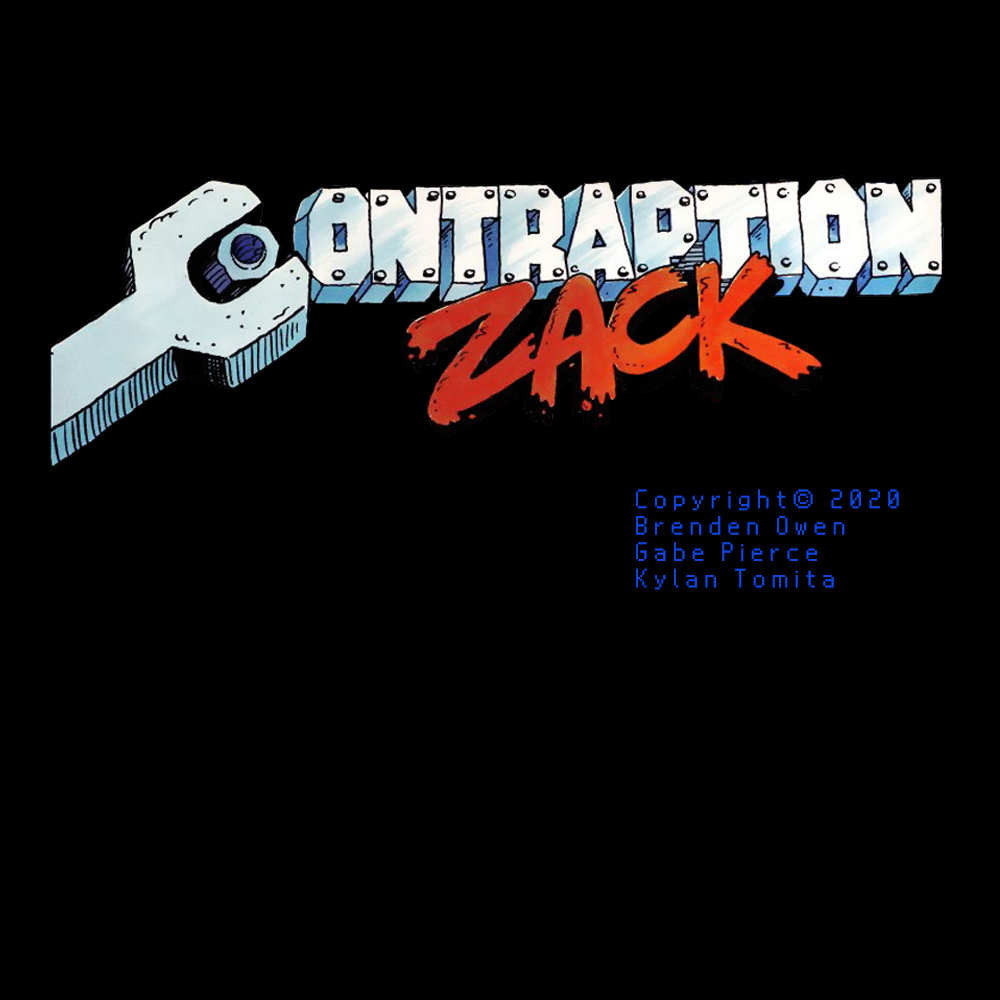
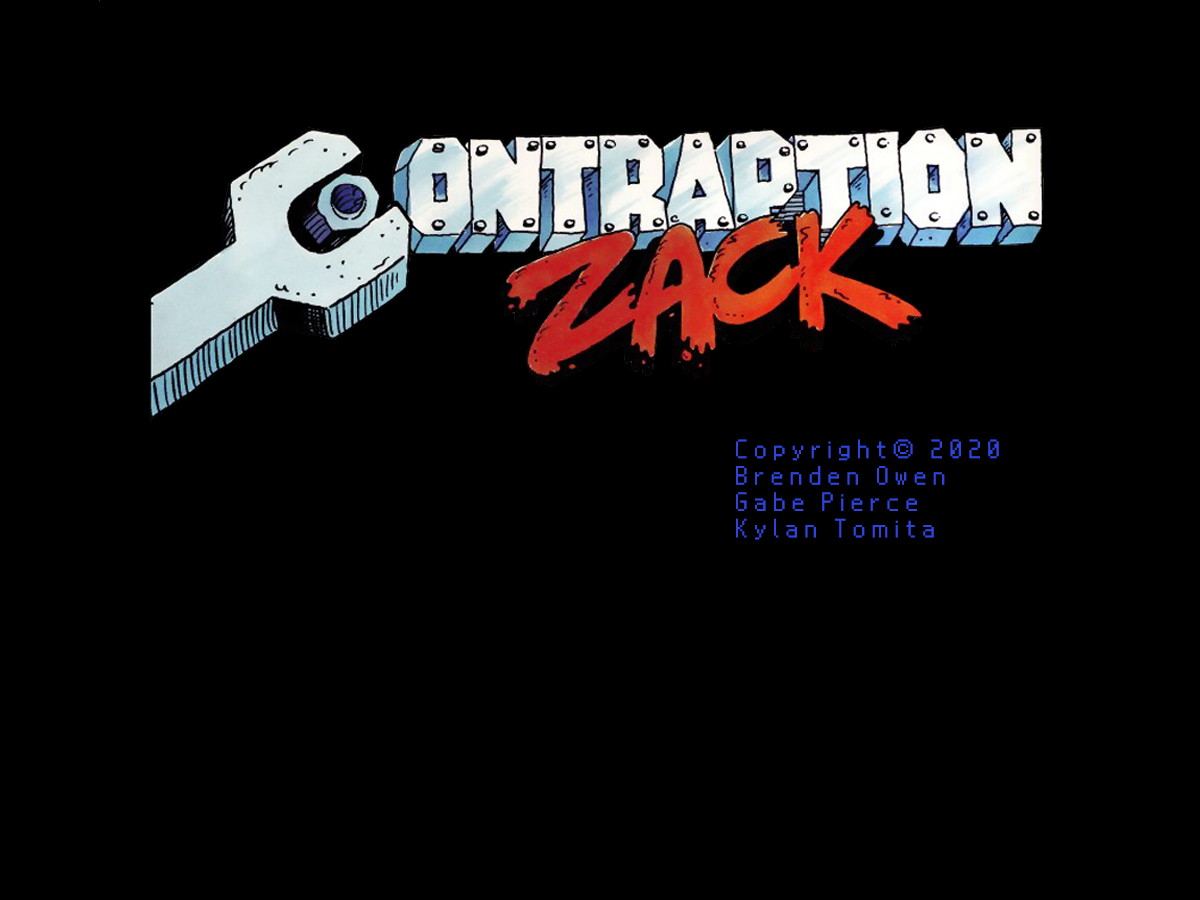
doors, changed aspect ratio and shifted levels to the right

Changed region(s): [[0.031, 0.1244, 0.961, 0.4667], [0.62, 0.4667, 0.899, 0.6222]]

diff --git a/Puzzle/src/Puzzle.java b/Puzzle/src/Puzzle.java
@@ -91,7 +91,7 @@ public class Puzzle extends Application {
 		//border pane holds everything
 		BorderPane bp = new BorderPane();
 		bp.setBackground(new Background(myImage));
-		bp.setPrefSize(1000, 1000);
+		bp.setPrefSize(PuzzleUtil.MAX_WIDTH, PuzzleUtil.MAX_HEIGHT);
 		bp.setBottom(myButtons);
 		//lift the buttons off the ground
 		bp.setPadding(new Insets(0, 00, 100, 0));
@@ -186,51 +186,58 @@ public class Puzzle extends Application {
             	continue;
           String[] data = l.split(",");
           
-          //the x,y,w,h common to all elements
-          int[] v = new int[4];
-          for(int i = 0; i < 4; i++)
-        	  v[i] = Integer.parseInt(data[i+1]); 
-          
-          Dir dir;
-          Col color;
-          switch(data[0]) {
-          case "t":
-        	  levelElements.add(new Tile(v[0], v[1], v[2], v[3],data[5]));
-        	  break;
-          case "w":
-        	  levelElements.add(new Wall(v[0], v[1], v[2], v[3], data[5]));
-        	  break;
-          case "j":
-        	  levelElements.add(new Jukebox(v[0], v[1], v[2], v[3]));
-        	  break;
-          case "a":
-        	  dir = new Dir(data[5]);
-        	  int dx = Integer.parseInt(data[7]), dy = Integer.parseInt(data[8]);
-        	  levelElements.add(new Arrow(v[0], v[1], v[2], v[3], dir, data[6], dx, dy, this));
-        	  break;
-          case "sp":
-        	  color = new Col(data[5]);
-        	  levelElements.add(new SquarePlate(v[0], v[1], v[2], v[3], color, Integer.parseInt(data[6]), this));
-        	  break;
-          case "cp":
-        	  color = new Col(data[5]);
-        	  levelElements.add(new circlePlate(v[0], v[1], v[2], v[3], color, Integer.parseInt(data[6]), this));
-        	  break;
-          case "spike":
-        	  color = new Col(data[5]);
-        	  levelElements.add(new Spike(v[0], v[1], v[2], v[3], color, data[6].charAt(0), Integer.parseInt(data[7]), this));
-        	  break;
-          case "launchpad":
-        	  dir = new Dir(data[5]);
-        	  levelElements.add(new Launchpad(v[0], v[1], v[2], v[3], dir, Integer.parseInt(data[6]), this));
-        	  break;
-          case "screwdriver":
-        	  //color = new Col(data[])
-        	  levelElements.add(new Screwdriver(v[0], v[1], v[2], v[3], Integer.parseInt(data[5]), this));
-        	  break;
-          }
-        }
-        scan.close();
+          try {
+        	  //the x,y,w,h common to all elements
+			  int[] v = new int[4];
+			  for(int i = 0; i < 4; i++)
+				  v[i] = Integer.parseInt(data[i+1]); 
+			  
+			  Dir dir;
+			  Col color;
+			  switch(data[0]) {
+			  case "t":
+				  levelElements.add(new Tile(v[0], v[1], v[2], v[3],data[5]));
+				  break;
+			  case "w":
+				  levelElements.add(new Wall(v[0], v[1], v[2], v[3], data[5]));
+				  break;
+			  case "j":
+				  levelElements.add(new Jukebox(v[0], v[1], v[2], v[3]));
+				  break;
+			  case "a":
+				  dir = new Dir(data[5]);
+				  int dx = Integer.parseInt(data[7]), dy = Integer.parseInt(data[8]);
+				  levelElements.add(new Arrow(v[0], v[1], v[2], v[3], dir, data[6], dx, dy, this));
+				  break;
+			  case "sp":
+				  color = new Col(data[5]);
+				  levelElements.add(new SquarePlate(v[0], v[1], v[2], v[3], color, Integer.parseInt(data[6]), this));
+				  break;
+			  case "cp":
+				  color = new Col(data[5]);
+				  levelElements.add(new CirclePlate(v[0], v[1], v[2], v[3], color, Integer.parseInt(data[6]), this));
+				  break;
+			  case "spike":
+				  color = new Col(data[5]);
+				  levelElements.add(new Spike(v[0], v[1], v[2], v[3], color, data[6].charAt(0), Integer.parseInt(data[7]), this));
+				  break;
+			  case "launchpad":
+				  dir = new Dir(data[5]);
+				  levelElements.add(new Launchpad(v[0], v[1], v[2], v[3], dir, Integer.parseInt(data[6]), this));
+				  break;
+			  case "screwdriver":
+				  levelElements.add(new Screwdriver(v[0], v[1], v[2], v[3], Integer.parseInt(data[5]), this));
+				  break;
+			  case "door":
+				  levelElements.add(new Door(v[0], v[1], v[2], v[3], Integer.parseInt(data[5]), Integer.parseInt(data[6]), Integer.parseInt(data[7]),this));
+				  break;
+				}
+			} catch (ArrayIndexOutOfBoundsException e) {
+				System.out.println("Error with line:" + l);
+				e.printStackTrace();
+			}
+		}
+		scan.close();
 	}
 
 	public class LoadLevel extends Canvas {
@@ -292,6 +299,7 @@ public class Puzzle extends Application {
 			for (Element e : levelElements) {
 				e.update(millis);
 			}
+			//change the level after fade out finishes
 			if( fadeValue == 100 ) {
 				fadeDirection = -1;
 				saveAndLoadNextLevel(changingLevel);
@@ -316,11 +324,7 @@ public class Puzzle extends Application {
 				zack.goTo(tempX, tempY);
 			
 			//draw the level
-			levelCanvas.draw();
-			
-			//Drop down menu logic
-			//dropMenu
-			
+			levelCanvas.draw();			
 		}
 	}
 	

diff --git a/Puzzle/src/Door.java b/Puzzle/src/Door.java
@@ -1,0 +1,73 @@
+import java.util.ArrayList;
+
+import javafx.scene.canvas.GraphicsContext;
+import javafx.scene.image.Image;
+import javafx.scene.paint.Color;
+
+public class Door extends Element{
+	
+	private final static Image DOOR = new Image(PuzzleUtil.FILE_PATH_RES+"door.png", false);
+	private final static int DOOR_WIDTH = 83;
+	private final static int DOOR_HEIGHT = 184;
+	private final static int DOOR_ADVANCE_WAIT = 5;
+	private final static int DOOR_MAX_WAIT_VALUE = 140;
+	private int wait;
+	private int advanceWait;
+	private int minWait;
+	private int maxWait;
+	private int doorFrame;
+	private Puzzle puzzle;
+	
+	public Door(int x, int y, int w, int h, int wait, int minWait, int maxWait, Puzzle p) {
+		super(x,y,w,h);
+		this.wait = wait;
+		this.minWait = minWait;
+		this.maxWait = maxWait;
+		puzzle = p;
+		advanceWait = 0;
+	}
+	
+	@Override
+	public void draw(GraphicsContext gc) {
+		int sx = doorFrame * DOOR_WIDTH;
+		gc.drawImage(DOOR, sx, 0, DOOR_WIDTH, DOOR_HEIGHT, x, y, w, h);
+	}
+	@Override
+	//every frame, do this
+	public void update(long millis) {
+		advanceWait += 1;
+		if (advanceWait > DOOR_ADVANCE_WAIT) {
+			advanceWait = 0;
+			wait = wait > DOOR_MAX_WAIT_VALUE ? 0 : wait + 1;
+			
+			if(wait > minWait && wait < maxWait) {
+				//open door
+				doorFrame = doorFrame < 3 ? doorFrame + 1 : 3;
+			}
+			else {
+				//shut the door
+				doorFrame = doorFrame > 0 ? doorFrame - 1 : 0;
+			}
+		}
+	}
+	
+	@Override
+	public void onCollision(boolean isOn) {
+		if(doorFrame == 0)
+			puzzle.stopPlayer();
+	}
+	
+	@Override
+	public String toString() { 
+		ArrayList<Object> a = new ArrayList<Object>();
+		a.add(new String("door"));
+		a.add(new Integer(x));
+		a.add(new Integer(y));
+		a.add(new Integer(w));
+		a.add(new Integer(h));
+		a.add(new Integer(wait));
+		a.add(new Integer(minWait));
+		a.add(new Integer(maxWait));
+		return PuzzleUtil.getSaveData(a);
+	}
+}

diff --git a/Puzzle/src/CirclePlate.java b/Puzzle/src/CirclePlate.java
@@ -2,14 +2,14 @@ import java.util.ArrayList;
 import javafx.scene.canvas.GraphicsContext;
 import javafx.scene.image.Image;
 
-public class circlePlate extends Element{
+public class CirclePlate extends Element{
 	
 	private final static Image CPLATE = new Image(PuzzleUtil.FILE_PATH_RES+"circle_plates_2.png", false);
 	private Col color;
 	private int status;
 	private Puzzle puzzle;
 	
-	public circlePlate(int x, int y, int w, int h, Col c, int status, Puzzle p) {
+	public CirclePlate(int x, int y, int w, int h, Col c, int status, Puzzle p) {
 		super(x,y,w,h);
 		color = c;
 		this.status = status;
@@ -40,7 +40,7 @@ public class circlePlate extends Element{
 	@Override
 	public String toString() { //ex: sp,500,525,100,100,yellow
 		ArrayList<Object> a = new ArrayList<Object>();
-		a.add(new String("sp"));
+		a.add(new String("cp"));
 		a.add(new Integer(x));
 		a.add(new Integer(y));
 		a.add(new Integer(w));

diff --git a/Puzzle/src/PuzzleUtil.java b/Puzzle/src/PuzzleUtil.java
@@ -4,14 +4,12 @@ import javafx.scene.image.Image;
 
 class PuzzleUtil{
 	//constants
-	public static final int MAX_WIDTH = 1000;
-	public static final int MAX_HEIGHT = 1000;
+	public static final int MAX_WIDTH = 1200;
+	public static final int MAX_HEIGHT = 900;
 	public static final String PATH = System.getProperty("user.dir");
 	public static final String FILE_PATH_RES = "file:" + PATH + "/src/res/";
 	public static final String LEVEL_PATH = PATH+"/src/levels/";
 	public static final String SAVE_PATH = PATH+"/src/saves/";
-	public static final int ZACK_WIDTH = 66;
-	public static final int ZACK_HEIGHT = 100;
 	public static final int JUKEBOX_WIDTH = 70;
 	public static final int JUKEBOX_HEIGHT = 100;
 	public static final int SPIKE_WIDTH = 50;

diff --git a/Puzzle/src/Player.java b/Puzzle/src/Player.java
@@ -4,13 +4,15 @@ import javafx.scene.image.Image;
 class Player extends Element
 {
 	private final static Image ZACK = new Image(PuzzleUtil.FILE_PATH_RES+"zack.png", false);
+	public static final int ZACK_WIDTH = 66;
+	public static final int ZACK_HEIGHT = 100;
 	private final static int PLAYER_SPEED = 2;
 	private int playerWalkCycle = 0, walkFrames = 0;
 	private Dir playerDir = Dir.DOWN;
 	private boolean walking = false;
 	
 	public Player() {
-		this(400, 600, PuzzleUtil.ZACK_WIDTH, PuzzleUtil.ZACK_HEIGHT);
+		this(570, 540, ZACK_WIDTH, ZACK_HEIGHT);
 	}
 	public Player(int x, int y, int w, int h) {
 		super(x,y,w,h);

diff --git a/Puzzle/src/Spike.java b/Puzzle/src/Spike.java
@@ -21,8 +21,6 @@ public class Spike extends Element {
 	
 	@Override
 	public void draw(GraphicsContext gc) {
-		//gc.setFill(Color.AQUA);
-		//gc.fillRect(x, y, w, h);
 		
 		int sx = 0;
 		int sy = 0;
